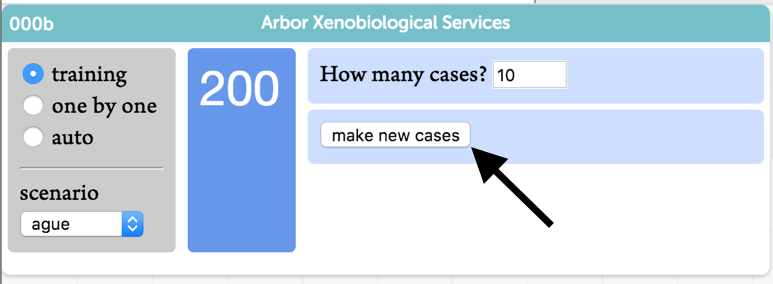
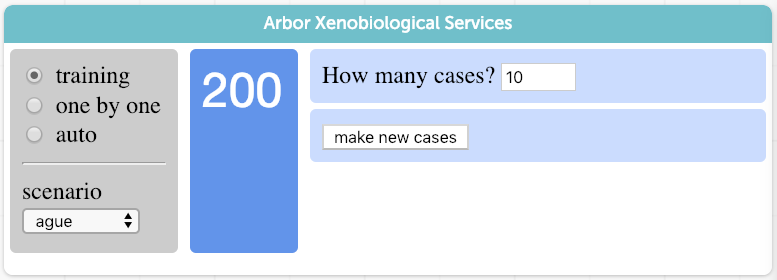
Changed strings in arborWorkshop.html and updated images to match Frieda+Cynthia+Talya's suggestions.

diff --git a/data-science-worlds/xeno/arborWorkshop.html b/data-science-worlds/xeno/arborWorkshop.html
@@ -40,7 +40,7 @@ limitations under the License.
 
 <h1>Trees in a Diagnosis Game</h1>
 
-<p>To begin, simplify the screen: minimize the <b>diagnostic tree</b>
+<p>To begin, simplify the screen: minimize the <b>diagnostic tree</b> window
     by pressing the minus sign in its title bar.
     Move it away so you're not distracted by it; we'll get to it later.</p>
 <img src="art/minimizer.png" width="333">
@@ -52,15 +52,12 @@ limitations under the License.
     What is it about the creatures that makes them susceptible to ague?
 </p>
 
-<p>The overall approach:</p>
 <ul>
-    <li>At first, leave the left-hand choice at <b>training</b>.
-    <li>Explore the data you already have&mdash;10 cases&mdash;to see if you can figure out what "predicts" the disease
-        (in
-        this case, ague).
+    <li>Starting with the Arbor Xenobiological Services panel in Training mode, explore the data you already have&mdash;10 cases&mdash;to
+        see if you can figure out what "predicts" the disease (in this case, ague).
         <ul>
             <li>
-                In the data table, the <b>health</b> column tells you if they are sick or well.
+                In the "creatures" data table, the <b>health</b> column tells you if they are sick or well.
             </li>
             <li>
                 Figure out what <i>other</i> data you can use to predict <b>health</b>.
@@ -75,27 +72,26 @@ limitations under the License.
     <li>Get additional cases to confirm your ideas.
         Do this by pressing <b>make new cases</b>
         in the little panel
-        on the right side of <b>Arbor Xenobiological Services</b>
-        (there's an arrow in the picture).
+        on the right side of <b>Arbor Xenobiological Services</b>.
     </li>
     <li>When you're confident, change the left-hand choice to <b>one by one</b>.
     <li>Now you will diagnose individual cases. See if you're right.
         If you're not consistently right, review your data
         and see what you might have missed.
         (Notice that you're gaining points!)
-    <li>When you think you have this well figured out, we will automate the process of diagnosing these creatures.
+    <li>When you think you have this figured out, we will automate the process of diagnosing these creatures.
         See the next section on using trees for diagnosis.
 </ul>
 
 <h1>Trees for Diagnosis</h1>
 <p>
     To diagnose a patient, we ask a sequence of questions.
-    The answers will help us predict whether they have this sickness.
+    The answers will help us predict whether creatures have this sickness.
     The answer to a question leads either to a diagnosis (sick or well) or to a further question.
     We will represent&mdash;and automate&mdash;this process using the diagnostic tree.
 </p>
 <ul>
-    <li>Re-open the diagnostic tree by pressing that minus sign again.
+    <li>Expand the diagnostic tree by pressing that minus sign again.
     <li>Arrange your screen so you can see it. (You might want to make your data table smaller.)</li>
 </ul>
 <p>The diagnostic tree should look like the next picture, except that your numbers will be different.</p>
@@ -103,17 +99,10 @@ limitations under the License.
 <img src="art/treeRootOnlyBeginnning.png" width="333">
 
 <p>Grow your tree by dragging attribute names from the palette of names (at the bottom of the window) to the box.
-    You probably already figured out that hair color is important.</p>
+    You probably already figured out which attribute is important.</p>
 <ul>
     <li>
-        Drag <b>hair</b> from the palette to the box. (If it doesn't work the first time, keep trying.)
-
-    </li>
-    <li>
-        The attribute palette for the tree is not the same as the column headings
-        you use to make graphs.
-        You have to use the ones in the tree "tile."
-        Sorry about that.
+        Drag <b>hair</b> from the palette to the box.
     </li>
 </ul>
 
@@ -128,14 +117,14 @@ limitations under the License.
         stripe).
     <li>There are two possible answers, <b>blue</b> and <b>pink</b>. Each one leads to a different box.
     <li>The left-hand box tells us that there are 5 creatures with blue hair, and none of them (0%) are sick.
-    <li>The right-hand box tells us that there are 5 with pink hair, and all 5 of them (100%) are sick.
+    <li>The right-hand box tells us that there are 5 creatures with pink hair, and all 5 of them (100%) are sick.
 </ul>
 
-<p>Note: You can also "hover" over any box or link to get more information.</p>
+<p>Note: You can also "hover" over any box or link in the diagnostic tree to get more information.</p>
 
 <h2>Positive and Negative</h2>
 
-<p>Often, medical people talk about "positive" and "negative" diagnoses and results.
+<p>Often, medical specialists talk about "positive" and "negative" diagnoses and results.
     With our tree tool, we will think of "sick" as <i>positive</i>, like a positive test for ague.
     To predict which creatures have ague, we will label them as positive.</p>
 
@@ -161,7 +150,7 @@ limitations under the License.
     When you have your tree set the way you want it, go back to <b>Arbor Xenobiological Services</b> and choose
     <b>auto</b> on the left.
     Then click the <b>run tree</b> button to create 10 cases.</p>
-
+<img src="art/automate.png" width="333">
 <p>Your diagnostic tree will automatically diagnose 10 new patients. How did your tree do?</p>
 
 <h2>Explore</h2>
@@ -172,7 +161,7 @@ limitations under the License.
     <li>Try making some bad trees, or make bigger trees, and see how they work.
     <li>Figure out what affects your score.
     <li>Try other scenarios. They're harder.
-        (When you choose one, your old data will disappear. And you'll have to configure variables, see below.)
+        (When you choose one, your old data will disappear. And you'll have to configure variables. See below.)
     </li>
 </ul>
 
@@ -187,14 +176,16 @@ limitations under the License.
 <img src="art/showGearButton.png" width="144">
 <p>
     You need to <em>configure</em> the attribute. When you hover over its name in the tree,
-    you will see a gear button appear to the left.
-    Click it to get the configuration dialog.
+    you will see a gear button appear to the left.</p>
+<img src="art/gear.png" width="333">
+
+ <p>   Click it to get the configuration dialog.
 
 </p>
 <img src="art/configurationWeight.png" width="333">
 
 <ul>
-    <li> For a numeric attribute, you can set the "cut point."</li>
+    <li> For a numeric attribute, you can set the "cutoff point."</li>
     <li> For a numeric attribute, you can set the operator, that is, greater than or less than.</li>
     <li> For a categorical attribute, click the possible values to move them left and right.</li>
     <li> For any attribute, click the left-right button to swap the left and right values.</li>
